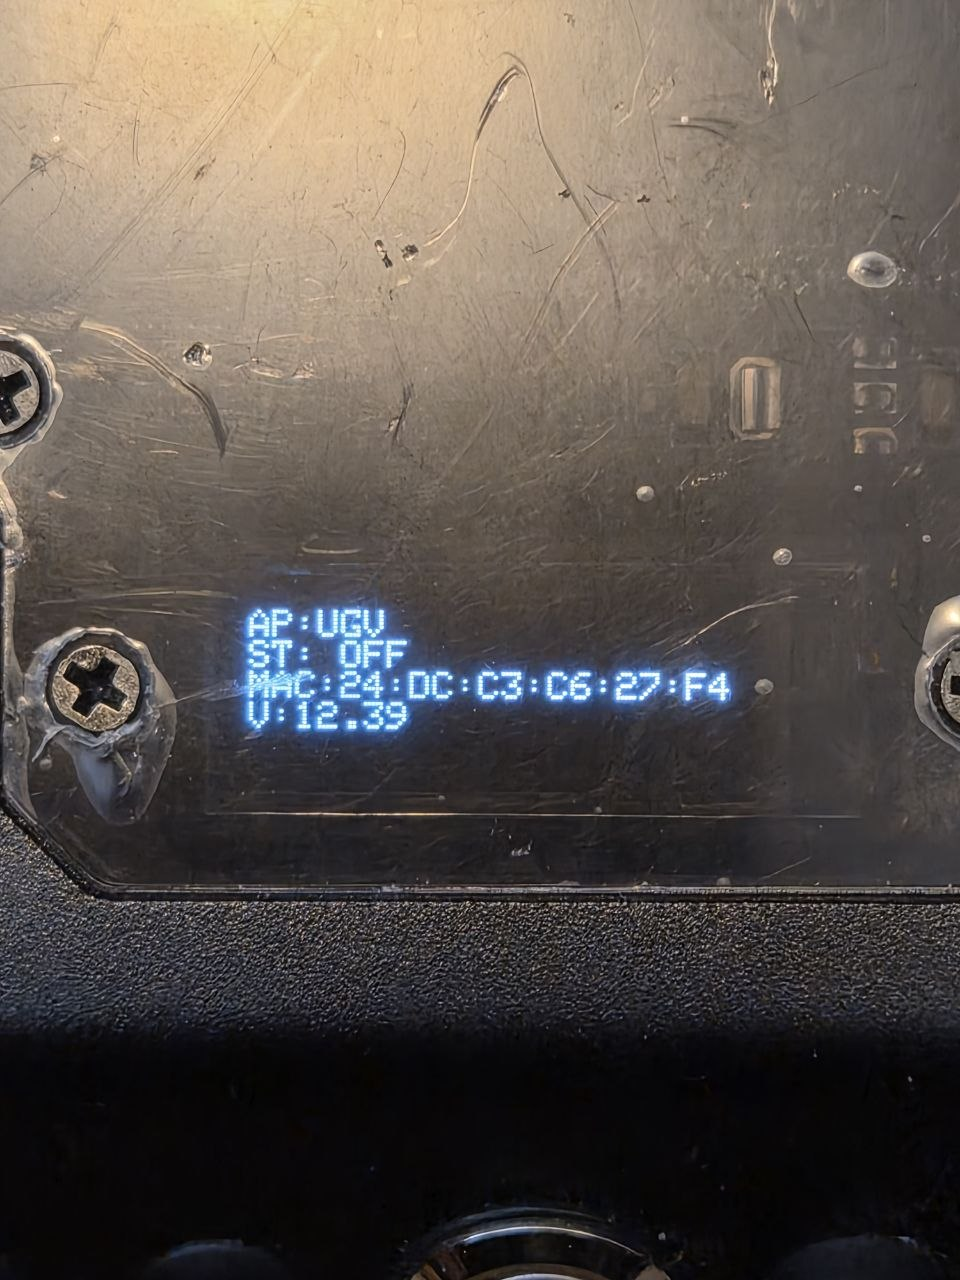
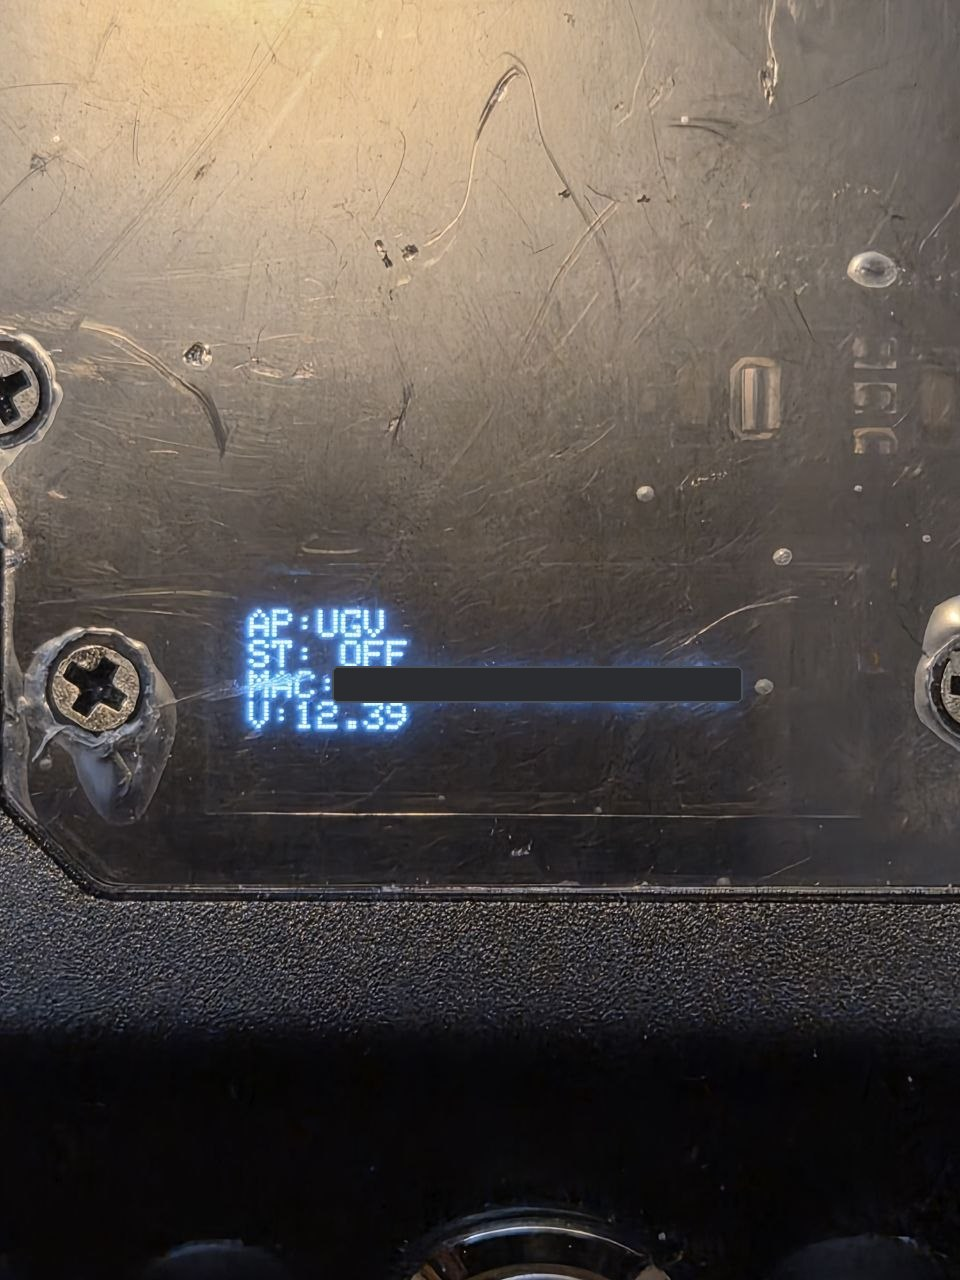
Redact rover MAC address in OLED photo and documentation

Changed region(s): [[0.3438, 0.5, 0.7812, 0.5625]]

diff --git a/docs/hardware.md b/docs/hardware.md
@@ -4,7 +4,7 @@ Everything the rover is (or will be) made of, photographed on the workbench as p
 
 | Part | Role | Source / model | Status |
 | --- | --- | --- | --- |
-| WAVE ROVER 4WD chassis | 4× N20 gearmotors, General Driver for Robots (ESP32), 9-axis IMU, OLED, 3S 18650 pack (`12.39 V`) | [Waveshare WAVE ROVER](https://www.waveshare.com/wiki/WAVE_ROVER) (`MAC: 24:DC:C3:C6:27:F4`) | <span class="htc-badge htc-badge--done">Done · Rolling</span> |
+| WAVE ROVER 4WD chassis | 4× N20 gearmotors, General Driver for Robots (ESP32), 9-axis IMU, OLED, 3S 18650 pack (`12.39 V`) | [Waveshare WAVE ROVER](https://www.waveshare.com/wiki/WAVE_ROVER) (`MAC: XX:XX:XX:XX:XX:XX`) | <span class="htc-badge htc-badge--done">Done · Rolling</span> |
 | Metal top expansion plate | Slotted anodized mounting deck + standoffs for LiDAR & compute | Bundled with WAVE ROVER | <span class="htc-badge htc-badge--done">On hand</span> |
 | 2D LiDAR kit | 360° laser scans for Stage 2 SLAM | **LDROBOT D500 LiDAR Kit** (LD19 / DTOFLiDAR) | <span class="htc-badge htc-badge--done">On hand</span> |
 | Companion SBC (bench candidate) | Compact Linux board spotted on the cutting mat beside Horace | Raspberry Pi Zero-form-factor board | <span class="htc-badge htc-badge--done">On hand</span> |
@@ -27,8 +27,8 @@ Everything the rover is (or will be) made of, photographed on the workbench as p
     <figcaption><strong>Top deck & pinout silkscreen:</strong> Smoked acrylic window over the ESP32 General Driver for Robots board, 40-pin header legend (<code>5V / GND / RX / TX / SCL / SDA</code>), folding 2.4 GHz antenna, power switch, and 12.6 V charge jack.</figcaption>
   </figure>
   <figure class="htc-photo">
-    <img src="../assets/hardware/oled-ap-ugv.jpg" alt="Close-up of the WAVE ROVER OLED displaying AP:UGV, ST: OFF, MAC:24:DC:C3:C6:27:F4, V:12.39">
-    <figcaption><strong>Stock OLED status screen:</strong> <code>AP:UGV</code> (hotspot SSID), <code>ST: OFF</code> (station mode idle), <code>MAC:24:DC:C3:C6:27:F4</code>, and <code>V:12.39</code> across the 3S 18650 pack.</figcaption>
+    <img src="../assets/hardware/oled-ap-ugv.jpg" alt="Close-up of the WAVE ROVER OLED displaying AP:UGV, ST: OFF, MAC:XX:XX:XX:XX:XX:XX, V:12.39">
+    <figcaption><strong>Stock OLED status screen:</strong> <code>AP:UGV</code> (hotspot SSID), <code>ST: OFF</code> (station mode idle), <code>MAC:XX:XX:XX:XX:XX:XX</code>, and <code>V:12.39</code> across the 3S 18650 pack.</figcaption>
   </figure>
 </div>
 

diff --git a/docs/build-log.md b/docs/build-log.md
@@ -14,7 +14,7 @@ Horace is officially alive, talking to ROS 2 Jazzy, and spinning all four wheels
     <figcaption>Horace on the bench with its metal mounting deck and the LDROBOT D500 LiDAR Kit box ready in the background.</figcaption>
   </figure>
   <figure class="htc-photo">
-    <img src="../assets/hardware/oled-ap-ugv.jpg" alt="OLED screen showing AP:UGV, ST: OFF, MAC:24:DC:C3:C6:27:F4, V:12.39">
+    <img src="../assets/hardware/oled-ap-ugv.jpg" alt="OLED screen showing AP:UGV, ST: OFF, MAC:XX:XX:XX:XX:XX:XX, V:12.39">
     <figcaption>Mystery solved: newer Waveshare firmware boots SSID <code>UGV</code> (not <code>WAVE_ROVER</code>), showing <code>V:12.39</code> on the 3S pack.</figcaption>
   </figure>
 </div>
@@ -22,7 +22,7 @@ Horace is officially alive, talking to ROS 2 Jazzy, and spinning all four wheels
 **What happened:**
 
 - **ROS 2 Jazzy on Apple Silicon:** Installed Miniforge + RoboStack (`robostack-jazzy`) natively on `osx-arm64` (`ros-jazzy-ros-base`, `ros-jazzy-teleop-twist-keyboard`, `colcon-common-extensions`).
-- **Cracked the Wi-Fi SSID Plot Twist:** Scanning for `WAVE_ROVER` came up empty because newer General Driver for Robots firmware broadcasts **`AP:UGV`** (`192.168.4.1`, MAC `24:DC:C3:C6:27:F4`, battery `12.39 V`), which was right there on the OLED the whole time.
+- **Cracked the Wi-Fi SSID Plot Twist:** Scanning for `WAVE_ROVER` came up empty because newer General Driver for Robots firmware broadcasts **`AP:UGV`** (`192.168.4.1`, MAC `XX:XX:XX:XX:XX:XX`, battery `12.39 V`), which was right there on the OLED the whole time.
 - **Verified HTTP JSON Control & First Motion:**
     - Sent `GET http://192.168.4.1/js?json={"T":3,"lineNum":0,"Text":"HORACE LIVES"}` → `HTTP/1.1 200 OK` and printed `HORACE LIVES` across line 0 of the OLED.
     - Sent `{"T":1,"L":0.25,"R":0.25}` → spun both left and right wheel pairs forward smoothly, followed by `{"T":1,"L":0,"R":0}` to stop and `{"T":-3}` to restore the status OLED.

diff --git a/docs/stages/stage-1-chassis.md b/docs/stages/stage-1-chassis.md
@@ -8,8 +8,8 @@ Get the WAVE ROVER driving under ROS 2 Jazzy. The onboard ESP32 keeps its stock 
     <figcaption>Horace on the cutting mat with the metal expansion deck plate and the LDROBOT D500 LiDAR Kit box waiting for Stage 2.</figcaption>
   </figure>
   <figure class="htc-photo">
-    <img src="../../assets/hardware/oled-ap-ugv.jpg" alt="Close-up of the WAVE ROVER OLED screen showing AP:UGV, ST: OFF, MAC:24:DC:C3:C6:27:F4, V:12.39">
-    <figcaption>First boot OLED readout: <code>AP:UGV</code>, <code>ST: OFF</code>, <code>MAC:24:DC:C3:C6:27:F4</code>, battery at a healthy <code>V:12.39</code>.</figcaption>
+    <img src="../../assets/hardware/oled-ap-ugv.jpg" alt="Close-up of the WAVE ROVER OLED screen showing AP:UGV, ST: OFF, MAC:XX:XX:XX:XX:XX:XX, V:12.39">
+    <figcaption>First boot OLED readout: <code>AP:UGV</code>, <code>ST: OFF</code>, <code>MAC:XX:XX:XX:XX:XX:XX</code>, battery at a healthy <code>V:12.39</code>.</figcaption>
   </figure>
 </div>
 
@@ -56,7 +56,7 @@ Older Waveshare documentation lists the default hotspot SSID as `WAVE_ROVER`, bu
 | **AP SSID** | `UGV` |
 | **AP Password** | `12345678` |
 | **Rover IP (AP mode)** | `192.168.4.1` |
-| **MAC Address** | `24:DC:C3:C6:27:F4` |
+| **MAC Address** | `XX:XX:XX:XX:XX:XX` |
 | **Battery (3S 18650)** | `12.39 V` (full charge) |
 
 !!! warning "Why `T:404` home Wi-Fi (STA mode) fails on UniFi Wi-Fi 7"
